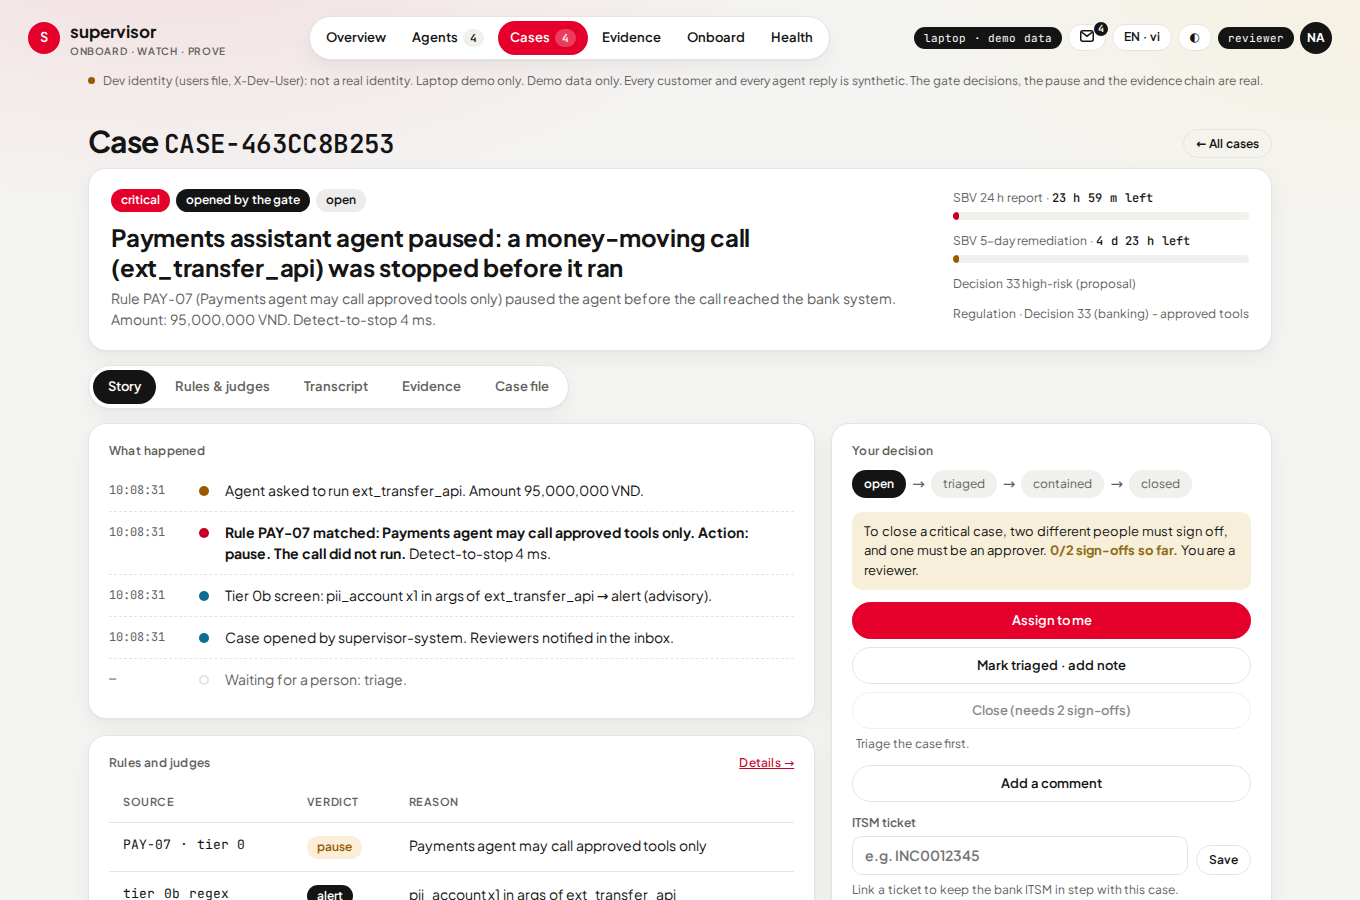
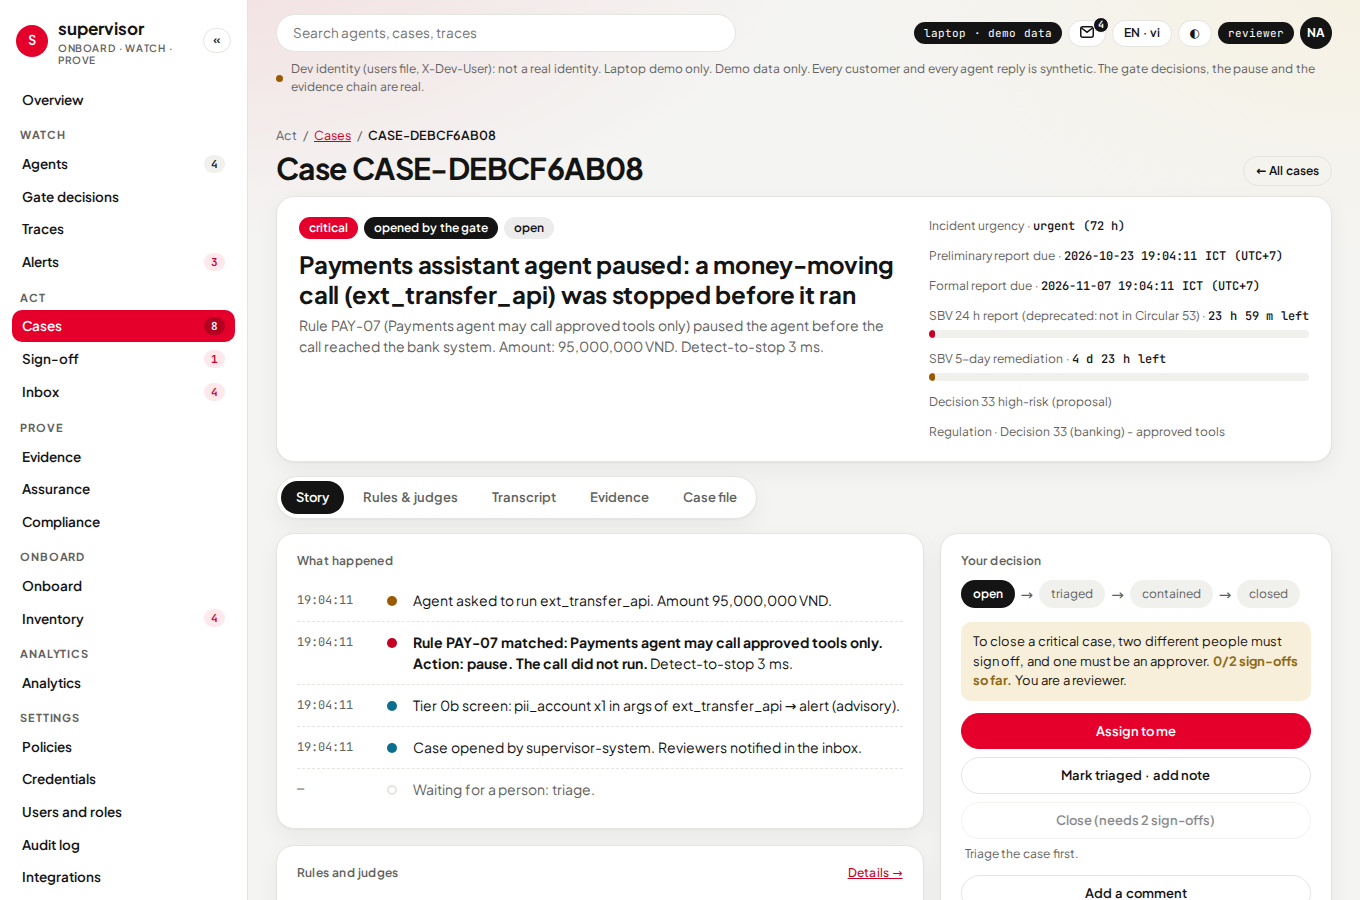
Integration UX: 12 reference screenshots (EN, light) of the merged console replace the pill-header set in docs/design/screens; list in docs/console.md; BACKLOG rows updated
Claude-Session: https://claude.ai/code/session_0154Ro9vi7onrUuJ6n94CirG

diff --git a/BACKLOG.md b/BACKLOG.md
@@ -93,7 +93,7 @@
 | WP1b-A: strict mode strips constraints from the request; the model can return a value outside them and costs one retry before the local check rejects it | Prompt-side limits are already in the template; measure the invalid-output rate per model in the validation report |
 | WP1b-A: Anthropic's endpoint refuses `temperature`, so determinism rests on model id and prompt version, not on temperature 0 | Run `--runs 3` stability on the real model before a go-live validation |
 | WP1b-A: strict mode lets the model exceed `maxItems`/`maxLength` (live: 12 rejected replies in one validation, 9 of them `policy_refs` > 5 from sonnet); each costs a retry | Judge-runner repair step (truncate rationale and quote, cap policy_refs at 5) with a repair count in the verdict row |
-| WP-UX1: filter, sort and page links do not push the URL (back button and copy-link keep the page, not the filter); drawer Copy JSON needs a secure context (localhost or https); the old screenshots in `docs/design/screens/` show the pill header | Decide whether to push state; regenerate with `tools/console_screenshots.py --reseed` after WP-UX2 |
+| WP-UX1: filter, sort and page links do not push the URL (back button and copy-link keep the page, not the filter); drawer Copy JSON needs a secure context (localhost or https) | Decide whether to push state (screens in `docs/design/screens/` were replaced at the wave-1 merge) |
 | WP-UX2: Case Story tab does not use the span tree yet (`_c_spantree.html` exists; the Traces viewer of WP-UX3 is its first user) | WP-UX3 or later |
 | WP-UX2: agent Traces tab links to `/console/traces/<id>` only when a route with that prefix exists; it never links to a span view of its own | Check after the WP-UX3 merge |
 | WP-UX2: Analytics Gate tab scans at most 20 000 gate events (a note shows when the cap is hit); a rollup table for gate counts would remove the scan | Later |
@@ -114,4 +114,3 @@
 | WP-UX3: Users and roles shows ids and group names from the config file; it does not resolve group membership (`group_lookup: scim_me` is per request) | - |
 | WP-UX3: Integrations: pager, ITSM and SCIM are fakes (last delivery empty); webhook last delivery is the newest `sent` notice | Real clients (WP11 wiring by the bank) |
 | WP-UX3: the audit-log flag is `CONSOLE_AUDITLOG_ENABLED` because `CONSOLE_AUDIT_ENABLED` already means "write audit rows" | Rename in a major version if the owner prefers one name |
-| WP-UX3: screenshots are in `/home/trung/supervisor-testbed/phase3/ux3-shots/`, not committed to `docs/design/screens/` | Commit after WP-UX2 merges, with one `--reseed` run for all pages |

diff --git a/docs/console.md b/docs/console.md
@@ -182,7 +182,25 @@ it needs, in English and Vietnamese, plus a dark shot.
 
 Screenshots for review: `uv run python tools/console_screenshots.py --reseed` (dev only; it
 needs Playwright in `PLAYWRIGHT_PYTHON`, else it prints `[SKIP]`) writes every screen at
-1360x900 in English and Vietnamese to `docs/design/screens/`.
+1360x900 in English and Vietnamese (`--out DIR`; `--ux3` adds the WP-UX3 pages).
+
+Committed reference set in `docs/design/screens/` (English, light theme, 1360x900, synthetic
+demo store; taken on the merged phase3-wave1 console with `--reseed` and then `--ux3`):
+
+| File | Screen |
+|---|---|
+| `overview-en.png` | Overview with stat tiles and the sidebar (WP-UX1) |
+| `agents-drawer-en.png` | Agents list with the row drawer open (WP-UX1) |
+| `agent-overview-en.png` | Agent page, Overview tab (WP-UX2) |
+| `case-en.png` | Case page (WP-UX2 header) |
+| `alerts-en.png` | Alerts list (WP-UX2) |
+| `signoff-en.png` | Sign-off list (WP-UX2) |
+| `analytics-gate-en.png` | Analytics, Gate tab (WP-UX2) |
+| `decisions-drawer-en.png` | Gate decisions with the drawer open (WP-UX3) |
+| `trace-en.png` | Trace viewer: span tree and the gate stop (WP-UX3) |
+| `playground-en.png` | Playground dry-run form (WP-UX3) |
+| `policies-en.png` | Policies in force (WP-UX3) |
+| `audit-en.png` | Audit log (WP-UX3) |
 
 ## Case states
 

diff --git a/docs/design/README.md b/docs/design/README.md
@@ -1,6 +1,6 @@
 # Console design reference (2026-10-15)
 
-`console-prototype.html` is the approved look and information architecture for the reviewer console (WP12 rebuild). Open it in a browser; the left rail switches screens. The PNGs are reference renders at 1360x900.
+`console-prototype.html` is the approved look and information architecture for the reviewer console (WP12 rebuild). Open it in a browser; the left rail switches screens. The PNGs in `screens/` are reference renders of the phase 3 console at 1360x900 (list in `docs/console.md`).
 
 Design rules the real console must keep:
 - Every screen opens with a one-sentence purpose box (what this screen is for), plus one plain-language "why" line.
